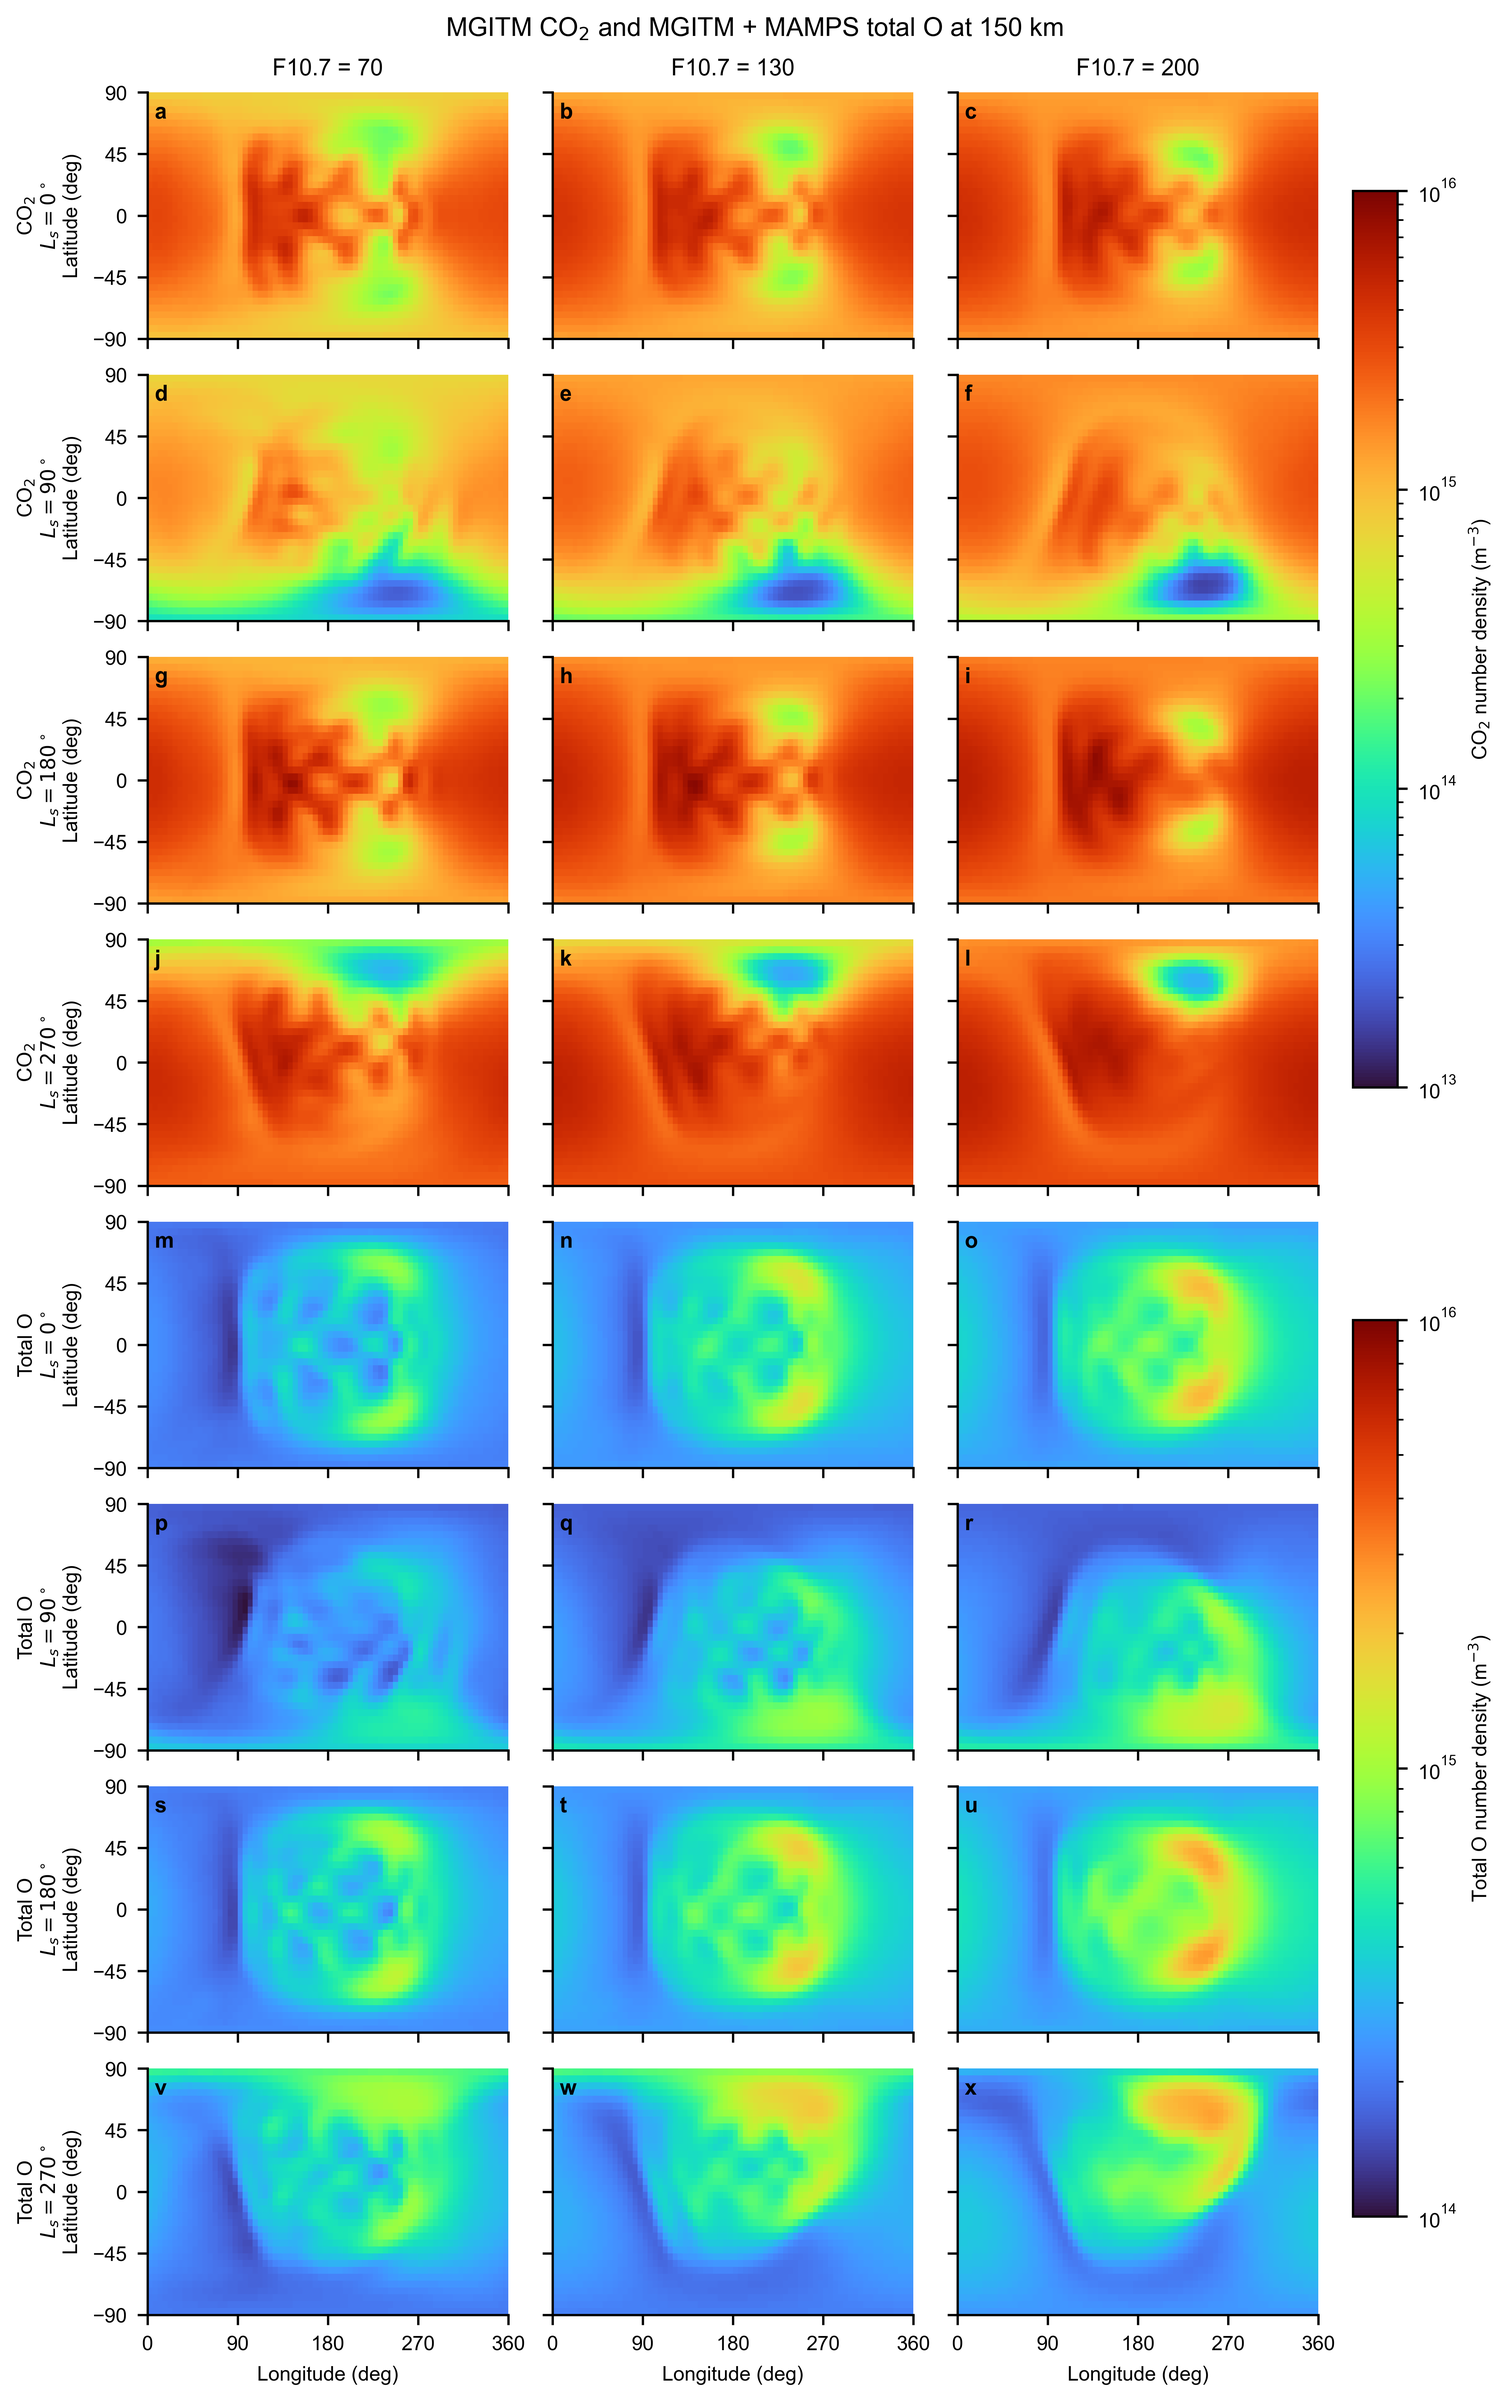
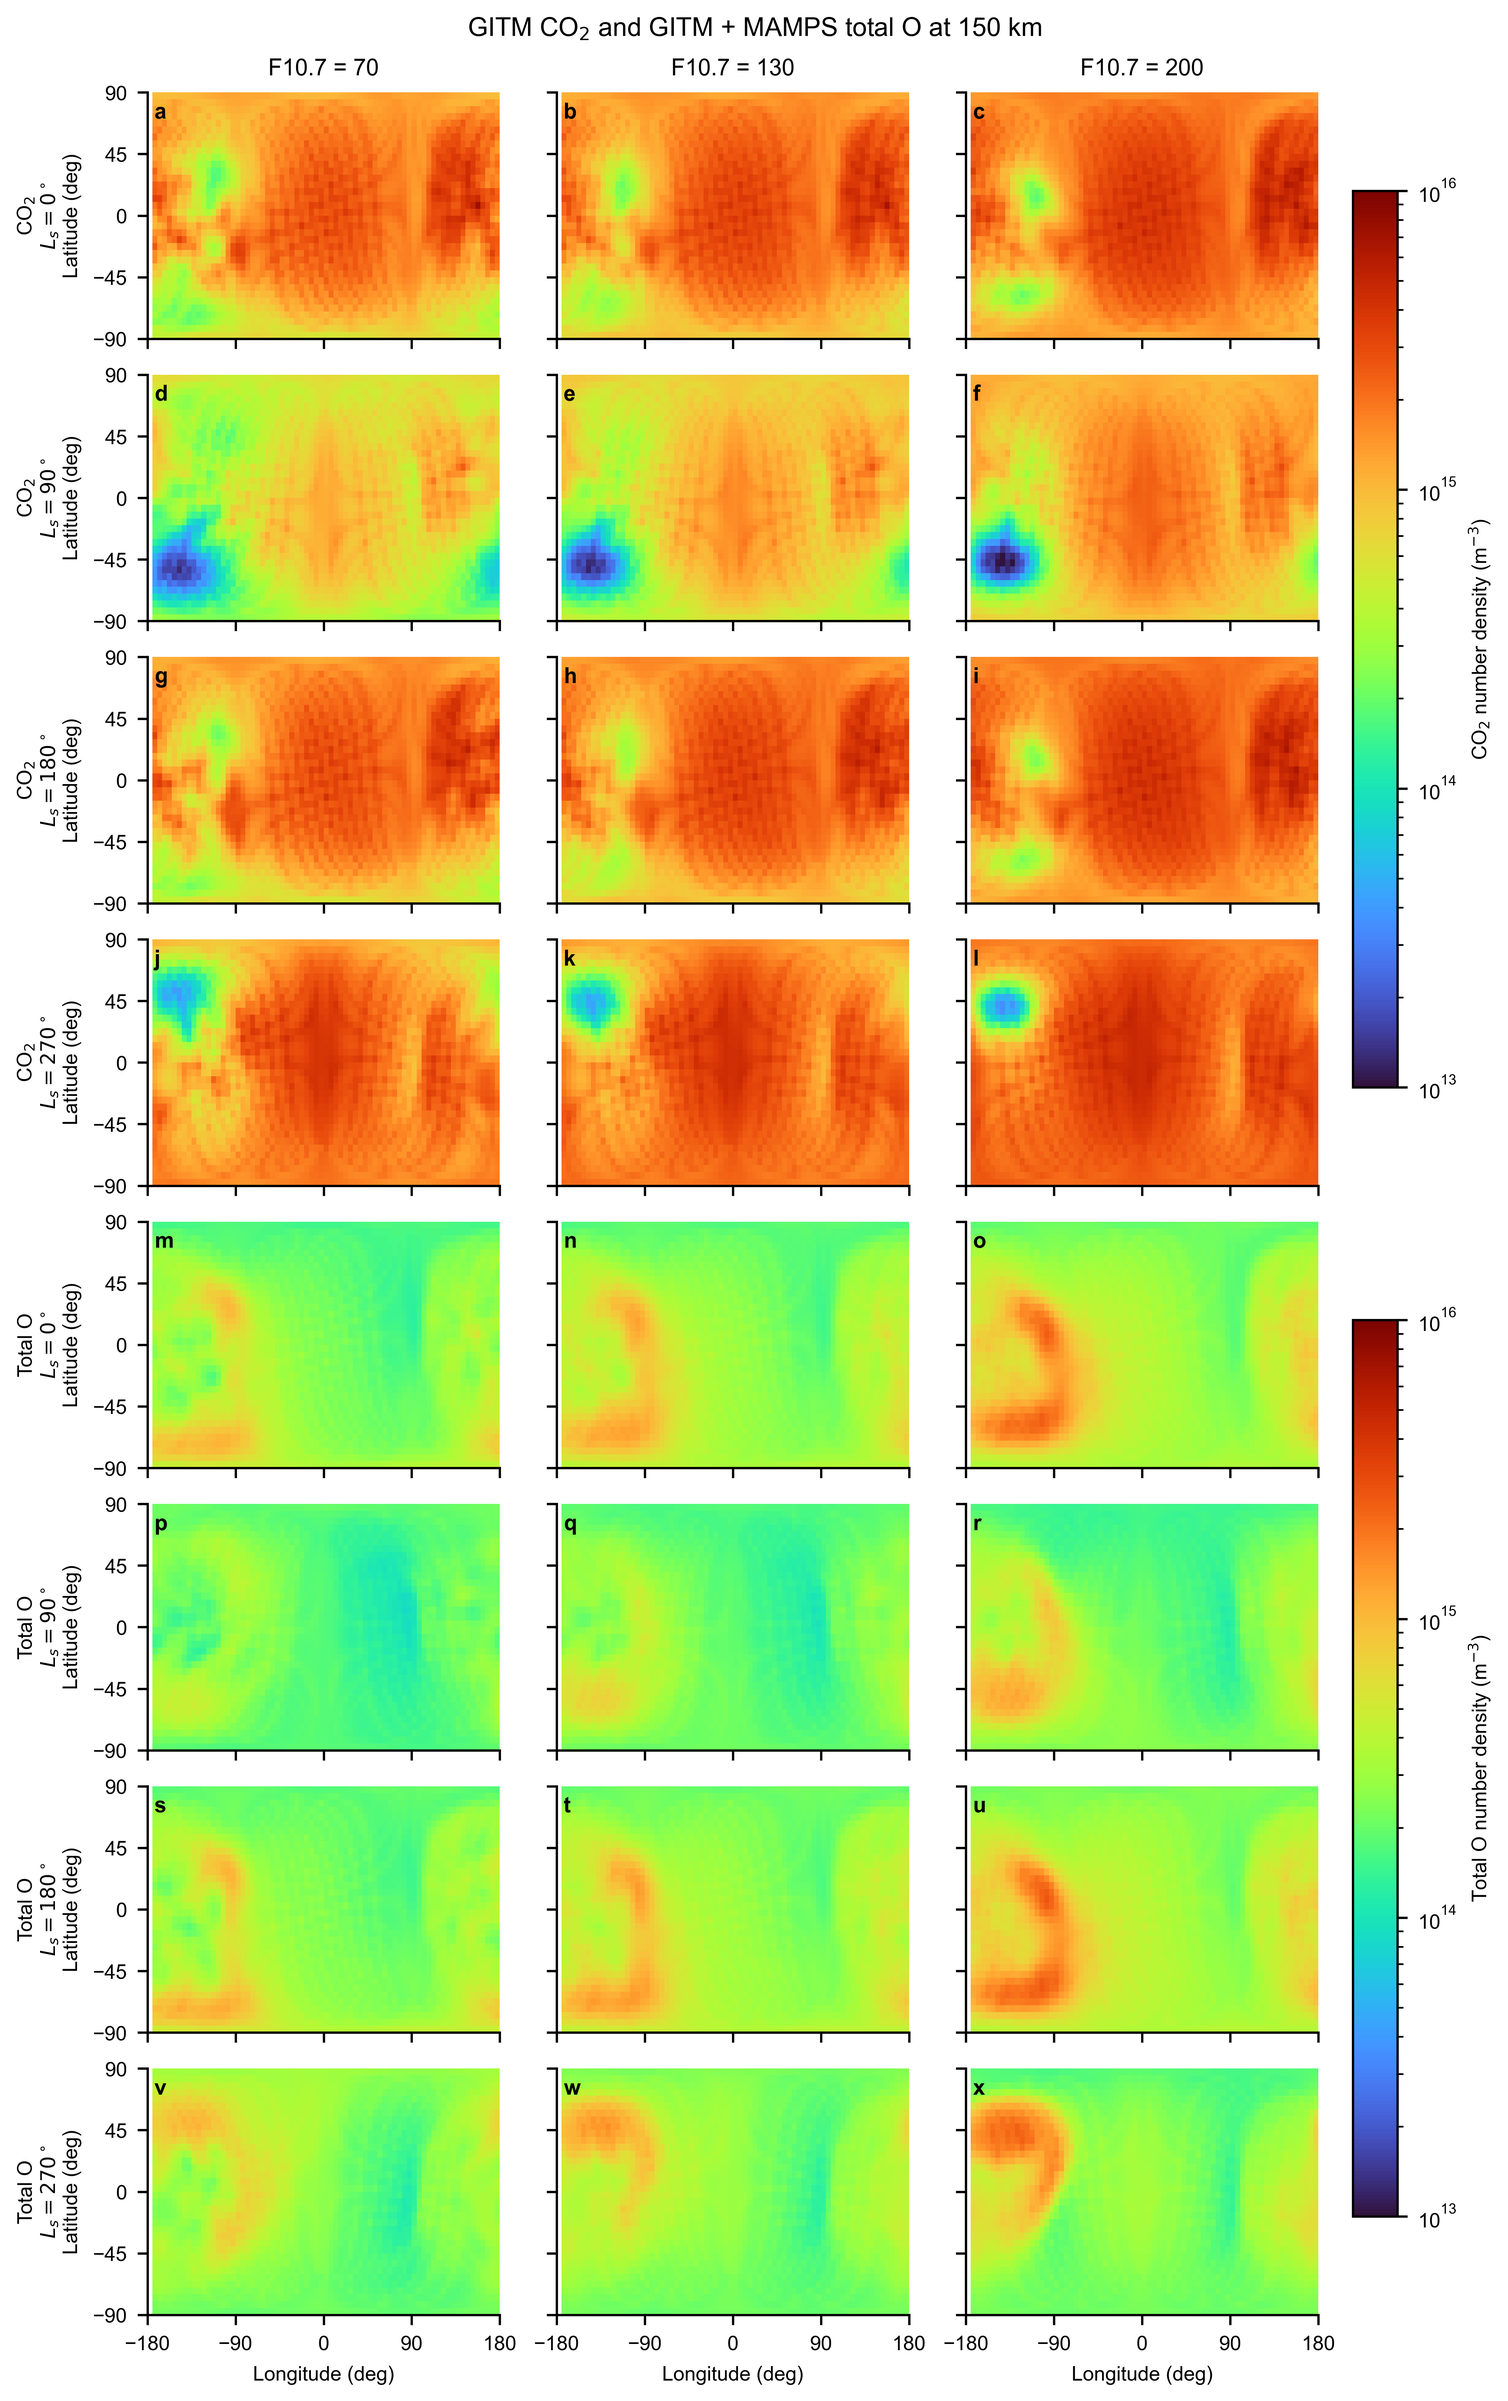
Regenerate atmosphere figures from original MAT data

diff --git a/examples/plot_atmosphere_maps_150km.py b/examples/plot_atmosphere_maps_150km.py
@@ -111,8 +111,12 @@ def main() -> None:
                 mamps["alt_km"], mamps["nO_hot"], ALTITUDE_KM
             )
             total_o = cold_o + hot_o
+            # Center the MSO longitude grid on the subsolar meridian.
+            centered_longitude = np.arange(-177.5, 180.0, 5.0)
+            co2 = np.roll(co2, co2.shape[0] // 2, axis=0)
+            total_o = np.roll(total_o, total_o.shape[0] // 2, axis=0)
             cases[(ls, f107)] = {
-                "longitude": np.asarray(gitm["lon_deg"], dtype=float),
+                "longitude": centered_longitude,
                 "latitude": np.asarray(gitm["lat_deg"], dtype=float),
                 "co2": co2,
                 "oxygen": total_o,
@@ -159,9 +163,9 @@ def main() -> None:
                     rasterized=True,
                 )
                 last_mesh[field] = mesh
-                axis.set_xlim(0, 360)
+                axis.set_xlim(-180, 180)
                 axis.set_ylim(-90, 90)
-                axis.set_xticks((0, 90, 180, 270, 360))
+                axis.set_xticks((-180, -90, 0, 90, 180))
                 axis.set_yticks((-90, -45, 0, 45, 90))
                 axis.text(
                     0.02, 0.96, chr(ord("a") + panel_index),
@@ -195,7 +199,7 @@ def main() -> None:
         r"Total O number density (m$^{-3}$)"
     )
     fig.suptitle(
-        "MGITM CO$_2$ and MGITM + MAMPS total O at 150 km",
+        "GITM CO$_2$ and GITM + MAMPS total O at 150 km",
         fontsize=9,
     )
     OUTPUT.parent.mkdir(parents=True, exist_ok=True)

diff --git a/examples/plot_atmosphere_cases.py b/examples/plot_atmosphere_cases.py
@@ -1,9 +1,9 @@
-"""Plot all packaged MGITM and MAMPS density profiles.
+"""Plot GITM CO2/O and MAMPS hot-O density profiles.
 
 The 4 by 3 panel grid spans four seasons and three solar-activity levels.
 Every profile is sampled at 0 degrees longitude and 0 degrees latitude.
-MGITM contains the cold neutral species CO2, O, O2, N2, and CO. MAMPS supplies
-the separate hot-O population. Number densities are displayed in SI units.
+The supplied processed GITM files contain cold CO2 and O. MAMPS supplies the
+separate hot-O population. Number densities are displayed in SI units.
 
 MarsASPEN extrapolates the first two logarithmic density levels down to 80 km.
 Above the native MGITM top boundary, each cold species is hydrostatically
@@ -32,9 +32,6 @@ F107_VALUES = (70, 130, 200)
 SPECIES = (
     ("nCO2", r"CO$_2$", "#4C72B0", 44.01),
     ("nO", "O", "#55A868", 15.999),
-    ("nO2", r"O$_2$", "#C44E52", 31.998),
-    ("nN2", r"N$_2$", "#8172B2", 28.014),
-    ("nCO", "CO", "#937860", 28.010),
 )
 AMU_KG = 1.66053906660e-27
 KB_J_K = 1.380649e-23
@@ -180,7 +177,7 @@ def main() -> None:
         ncol=2, fontsize=6, loc="lower left", bbox_to_anchor=(0.0, 1.18)
     )
     fig.suptitle(
-        r"MGITM cold neutrals and MAMPS hot O at lon=0$^\circ$, lat=0$^\circ$",
+        r"GITM cold neutrals and MAMPS hot O at lon=0$^\circ$, lat=0$^\circ$",
         fontsize=9,
     )
     OUTPUT.parent.mkdir(parents=True, exist_ok=True)

diff --git a/examples/plot_gitm_temperature_200km.py b/examples/plot_gitm_temperature_200km.py
@@ -1,4 +1,4 @@
-"""Plot MGITM neutral temperature at 200 km on its native longitude grid."""
+"""Plot GITM neutral temperature at 200 km on its native longitude grid."""
 
 from __future__ import annotations
 
@@ -76,7 +76,7 @@ def main() -> None:
         gitm["alt_km"], gitm["Tn"], ALTITUDE_KM
     )
 
-    # MGITM longitude is stored from 0 to 360 degrees. Roll only for the
+    # GITM longitude is stored from 0 to 360 degrees. Roll only for the
     # conventional -180 to 180 degree display. The packaged file does not
     # include the subsolar longitude needed to convert this native longitude
     # into MSO longitude.
@@ -112,9 +112,9 @@ def main() -> None:
         xticks=(-180, -90, 0, 90, 180),
         yticks=(-90, -45, 0, 45, 90),
         xlabel="Longitude used by MarsASPEN (deg)",
-        ylabel="MGITM latitude (deg)",
+        ylabel="GITM latitude (deg)",
         title=(
-            "MGITM neutral temperature at 200 km\n"
+            "GITM neutral temperature at 200 km\n"
             r"$L_s=0^\circ$, F10.7 = 130"
         ),
     )
